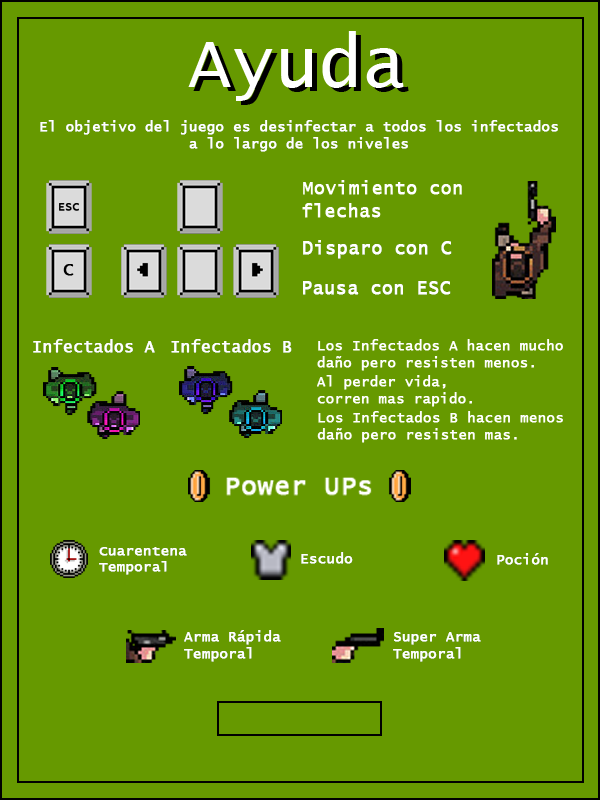
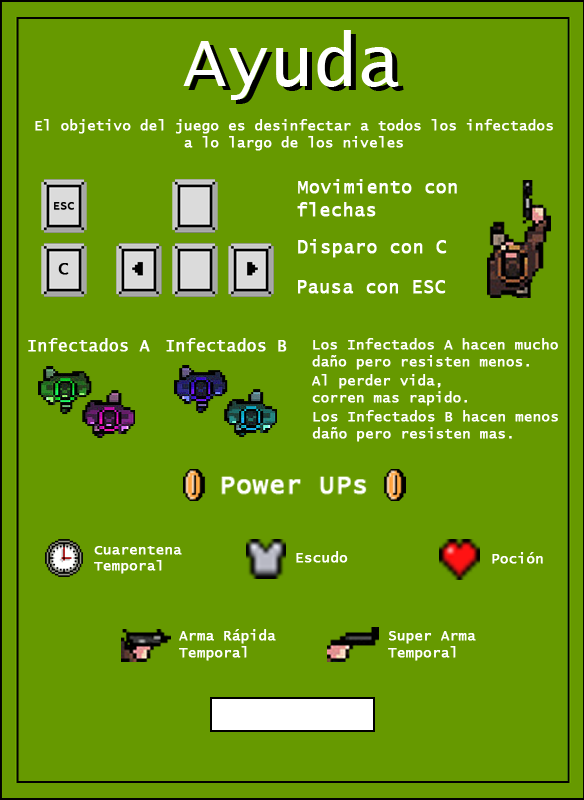
Menu principal y ayuda implementados

diff --git a/src/logica/Ventana.java b/src/logica/Ventana.java
@@ -2,6 +2,8 @@ package logica;
 
 import java.awt.Color;
 import java.awt.EventQueue;
+import java.awt.event.KeyAdapter;
+import java.awt.event.KeyEvent;
 
 import javax.swing.BorderFactory;
 import javax.swing.JFrame;
@@ -10,8 +12,12 @@ import javax.swing.JFrame;
 public class Ventana extends JFrame {
 	private static final long serialVersionUID = -3673320636191996954L;
 	
-	private HUD display;
 	private Mapa mapa;
+	private Juego juego;
+	
+	private HUD display;
+	private Menu menu;
+	private Ayuda ayuda;
 
 	
 	public static void main(String[] args) {
@@ -36,10 +42,11 @@ public class Ventana extends JFrame {
 		setTitle("Proyecto 3");
 		setResizable(false);
 		setLayout(null);
+		setLocationRelativeTo(null);
 		
 		inicializarComponentes();
 	}
-	
+
 	private void inicializarComponentes() {
 		// PASSPORT es solo un placeholder por ahora.
 		// Creo que viene de Windows 95
@@ -52,18 +59,48 @@ public class Ventana extends JFrame {
 		int limiteX = getWidth();
 		int limiteY = getHeight() - alturaHUD;				
 		
+		menu = new Menu(0,0,limiteX,limiteY, this);
+		ayuda = new Ayuda(0,0,limiteX, limiteY,this);
 		display = new HUD(0, limiteY, limiteX, limiteY + alturaHUD);
-		Juego juego = new Juego(60 /* FPS */, limiteX, limiteY,display);
-		mapa = new Mapa(0, 0, limiteX, limiteY);			
-		
-		add(mapa);
+
+		add(menu);
+		add(ayuda);
 		add(display);
+
+	}
+	
+	public void nuevoJuego() {
 		
+		int alturaHUD = 100;
+		int limiteX = getWidth();
+		int limiteY = getHeight() - alturaHUD;	
+		
+		juego = new Juego(60 , limiteX, limiteY,display);
+		mapa = new Mapa(0, 0, limiteX, limiteY);
+
 		juego.setMapa(mapa);
 		juego.crearJugador();
 		mapa.setPlayer(juego.getPlayer());	
 		
+		mapa.setVisible(true);
+		
+		add(mapa);
+		mapa.requestFocusInWindow();
+		
 		juego.testEntidades();
+		
 	}
+
+	public void mostrarAyuda() {
+		menu.setVisible(false);
+		ayuda.setVisible(true);
+	}
+	
+	public void cerrarAyuda() {
+		menu.setVisible(true);
+		ayuda.setVisible(false);
+	}
+
+	
 
 }

diff --git a/src/logica/Menu.java b/src/logica/Menu.java
@@ -1,5 +1,88 @@
 package logica;
 
-public class Menu {
+import java.awt.event.ActionEvent;
+import java.awt.event.ActionListener;
 
+import javax.swing.ImageIcon;
+import javax.swing.JButton;
+import javax.swing.JFrame;
+import javax.swing.JLabel;
+import javax.swing.JPanel;
+
+public class Menu extends JPanel{
+
+	/**
+	 * 
+	 */
+	private static final long serialVersionUID = 1L;
+	
+	private Ventana v;
+	
+	private JLabel background;
+	private JButton btnJugar;
+	private JButton btnSalir;
+	private JButton btnAyuda;
+
+	
+	public Menu(int x, int y, int limiteX, int limiteY, Ventana v) {
+		
+		this.v = v;
+		
+		setVisible(false);
+		setLayout(null);
+		setBounds(0, 0, limiteX, limiteY);
+		
+		background = new JLabel();
+		background.setBounds(x, y, limiteX, limiteY);
+		background.setIcon(new ImageIcon("img/menu.png")); 
+		add(background);
+		
+		btnJugar = new JButton("Jugar");
+		btnJugar.setBounds(209,517,165,35);
+		btnJugar.addActionListener(new OyenteJ());
+		
+		btnAyuda = new JButton("Ayuda");
+		btnAyuda.setBounds(209,572,165,35);
+		btnAyuda.addActionListener(new OyenteA());
+		
+		btnSalir = new JButton("Salir");
+		btnSalir.setBounds(209,627,165,35);
+		btnSalir.addActionListener(new OyenteS());
+		
+		add(btnJugar);
+		add(btnAyuda);
+		add(btnSalir);
+		
+		setVisible(true);
+
+	}
+	
+	
+	private class OyenteJ implements ActionListener{
+
+		@Override
+		public void actionPerformed(ActionEvent e) {
+			setVisible(false);
+			btnJugar.setFocusable(false);
+			btnAyuda.setFocusable(false);
+			btnSalir.setFocusable(false);
+			v.nuevoJuego();
+		}
+	}
+	
+	private class OyenteA implements ActionListener{
+
+		@Override
+		public void actionPerformed(ActionEvent e) {
+			v.mostrarAyuda();
+		}
+	}
+	
+	private class OyenteS implements ActionListener{
+
+		@Override
+		public void actionPerformed(ActionEvent e) {
+			System.exit(1);
+		}
+	}
 }

diff --git a/src/logica/Ayuda.java b/src/logica/Ayuda.java
@@ -1,0 +1,56 @@
+package logica;
+
+import java.awt.event.ActionEvent;
+import java.awt.event.ActionListener;
+
+import javax.swing.AbstractButton;
+import javax.swing.ImageIcon;
+import javax.swing.JButton;
+import javax.swing.JLabel;
+import javax.swing.JPanel;
+
+
+
+public class Ayuda extends JPanel {
+
+	/**
+	 * 
+	 */
+	private static final long serialVersionUID = 1L;
+	
+	private Ventana v;
+	private JLabel background;
+	private JButton btnVolver;
+
+	
+	public Ayuda(int x, int y, int limiteX, int limiteY, Ventana v) {
+		
+		this.v = v;
+	
+		setLayout(null);
+		setBounds(0, 0, limiteX, limiteY);
+		
+		background = new JLabel();
+		background.setBounds(x, y, limiteX, limiteY);
+		background.setIcon(new ImageIcon("img/ayuda.png")); 
+		add(background);
+		
+		btnVolver = new JButton("Volver");
+		btnVolver.setBounds(212,699,161,31);
+		btnVolver.addActionListener(new OyenteV());
+
+		add(btnVolver);
+
+		setVisible(false);
+		
+	}
+	
+	private class OyenteV implements ActionListener{
+
+		@Override
+		public void actionPerformed(ActionEvent e) {
+			v.cerrarAyuda();
+		}
+		
+	}
+}

diff --git a/src/logica/HUD.java b/src/logica/HUD.java
@@ -23,9 +23,7 @@ public class HUD extends JPanel {
 
 	
 	public HUD(int x, int y, int limiteX, int altura) {
-		layout = new FlowLayout(FlowLayout.CENTER, 50, 10);
-		layout.setHgap(10);
-		layout.setVgap(22);
+		layout = new FlowLayout(FlowLayout.CENTER, 10, 22);
 		
 		setBounds(x, y, limiteX, altura);
 		setBackground(new Color(102, 153, 0));
@@ -61,7 +59,7 @@ public class HUD extends JPanel {
 		add(arma);
 		add(escudo);
 		
-		//actualizarHUD(8, 1, 2, true, "Default"); // Test para ver como se ve el HUD
+		actualizarHUD(75, 100, 6, true, "Default"); // Hud inicial
 	}
 	
 	public void actualizarHUD(int cargaViral, int nivel, int infectados, boolean tieneEscudo, String armaSeleccionada) {

diff --git a/src/logica/Mapa.java b/src/logica/Mapa.java
@@ -17,6 +17,7 @@ public class Mapa extends JPanel {
 	private JLabel background;
 	
 	public Mapa(int x, int y, int limiteX, int limiteY) {
+		
 		addKeyListener(new InputTeclado());
 		setFocusable(true);
 		setLayout(null);
@@ -35,11 +36,13 @@ public class Mapa extends JPanel {
 		@Override
 		public void keyPressed(KeyEvent e) {
 			player.keyPressed(e);
+			System.out.println(e.getKeyChar());
 		}
 		
 		@Override
 		public void keyReleased(KeyEvent e) {
 			player.keyReleased(e);
+			System.out.println(e.getKeyChar());
 		}
 	}
 	

diff --git a/src/logica/Juego.java b/src/logica/Juego.java
@@ -72,6 +72,8 @@ public class Juego {
 		float fpsEnMS = ( 1/ (float) FPS ) * 1000;
 		Timer t = new Timer((int)fpsEnMS, eventoTimer);
 		t.start();
+		
+
 	}
 	
 	public void testEntidades() {
